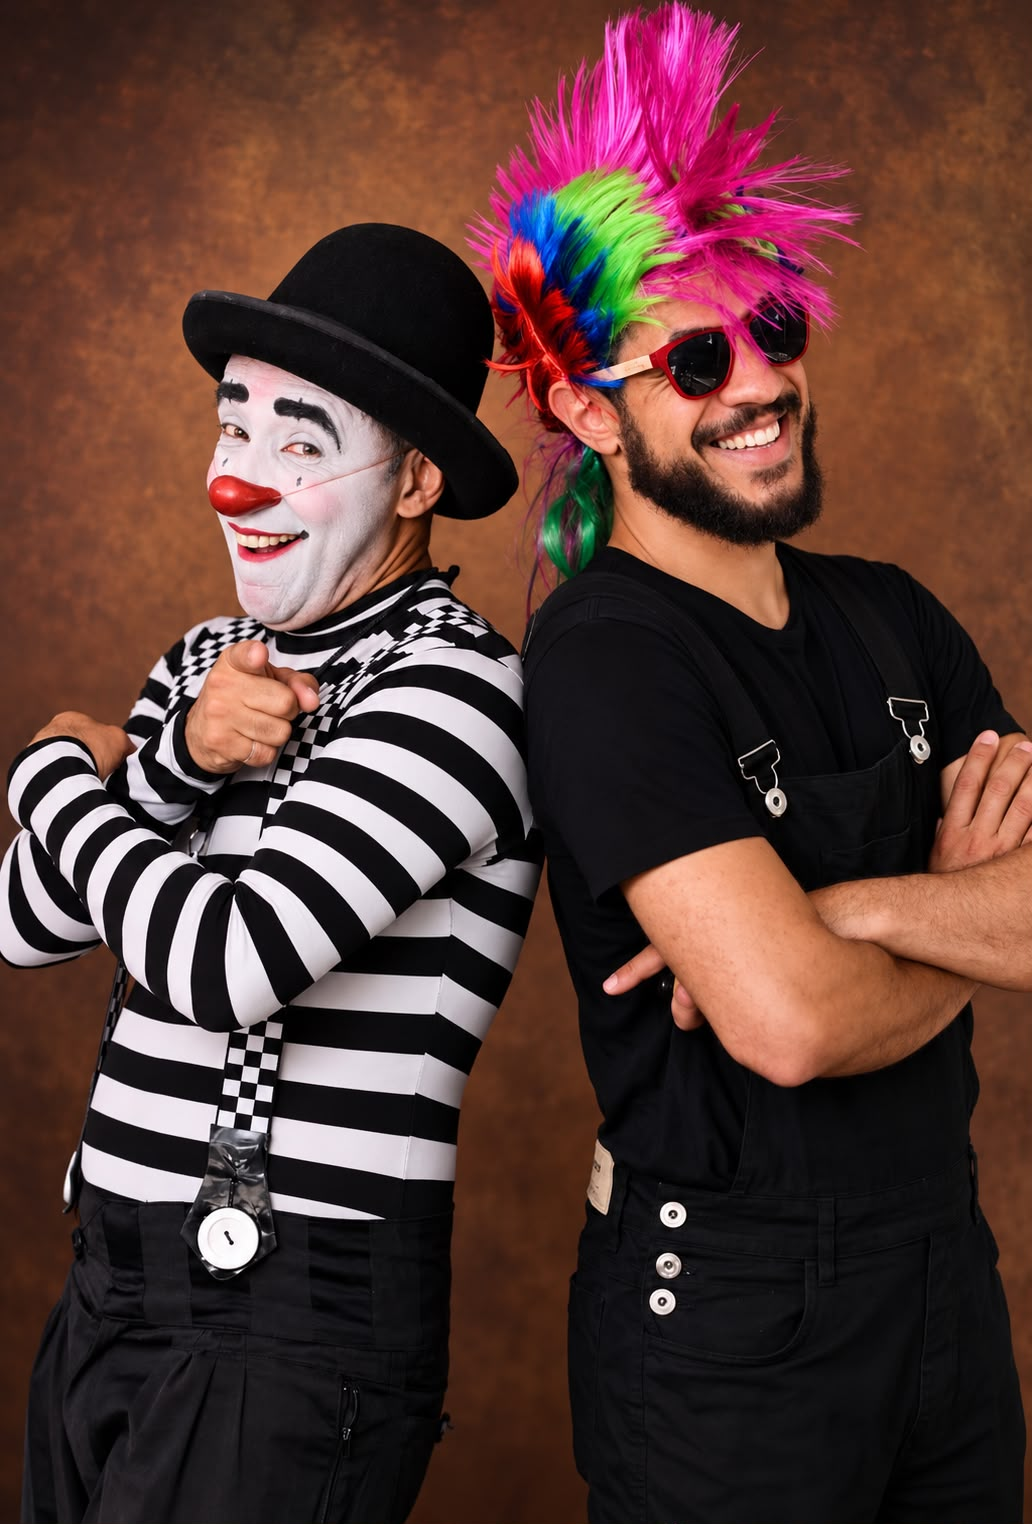
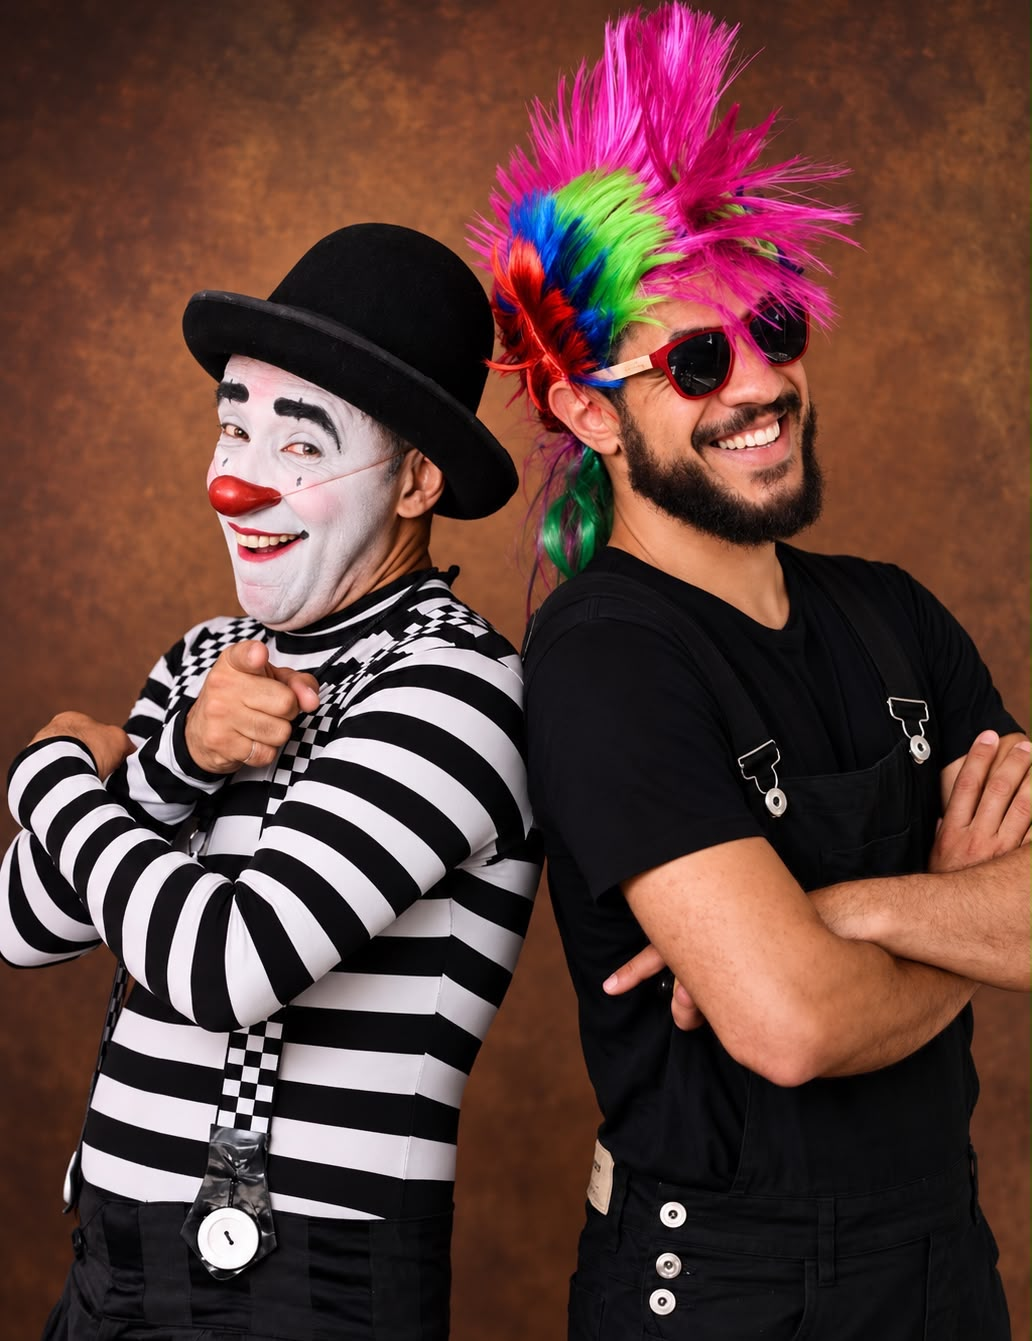
penultimo push para finalizar o site. alterações e adição de fotos na galeria de fotos.

diff --git a/index.html b/index.html
@@ -104,7 +104,7 @@
             <div><strong>+13 Anos</strong><span>Experiência em eventos e treinamentos corporativos</span></div>
             <div><strong>+800</strong><span>eventos realizados</span></div>
             <div><strong>+400</strong><span>empresas atendidas</span></div>
-            <div><strong>+0 Mil</strong><span>colaboradores impactados</span></div>
+            <div><strong>+50 Mil</strong><span>colaboradores impactados</span></div>
           </div>
         </div>
       </section>
@@ -177,10 +177,10 @@
         <div class="w sec">
           <h2 class="t">Galeria de <b>eventos</b></h2>
           <div class="grid g2">
-            <div class="ph com-foto">[FOTO 1]</div>
-            <div class="ph com-foto">[FOTO 2]</div>
-            <div class="ph com-foto">[FOTO 3]</div>
-            <div class="ph com-foto">[FOTO 4]</div>
+            <div class="ph com-foto"><img src="/fotosperformace/galeria/WhatsApp Image 2026-11-09 at 22.02.23 (1).jpeg" alt="Galeria de eventos"></div>
+            <div class="ph com-foto"><img src="/fotosperformace/galeria/Stresesegdotreb - cópia.jpeg" alt="Evento 1"></div>
+            <div class="ph com-foto"><img src="/fotosperformace/galeria/WhatsApp Image 2026-11-09 at 22.02.23 (2).jpeg" alt="Evento 2"></div>
+            <div class="ph com-foto"><img src="/fotosperformace/galeria/WhatsApp Image 2026-11-09 at 22.02.24 (1).jpeg" alt="Evento 3"></div>
           </div>
         </div>
       </section>
@@ -192,28 +192,46 @@
           <details>
             <summary>O que é a SIPAT?</summary>
             <p>
-              É a Semana Interna de Prevenção de Acidentes do Trabalho, organizada pela CIPA da
-              empresa, conforme a NR-5. Confirme as regras para o seu caso com o técnico de
-              segurança.
+              A SIPAT (Semana Interna de Prevenção de Acidentes do Trabalho) é uma iniciativa voltada à conscientização dos colaboradores sobre segurança, saúde e qualidade de vida no ambiente profissional.
+
+              <p>Na Performance Eventos Corporativos, transformamos esse momento em uma experiência dinâmica e envolvente, com palestras, treinamentos e atividades interativas que unem conhecimento, criatividade e engajamento.</p>
+              
+
             </p>
           </details>
           <details>
             <summary>Vocês adaptam o conteúdo à nossa empresa?</summary>
             <p>
-              Sim. As peças de teatro e os programas são adaptáveis à realidade de cada empresa.
+              Sim! Cada empresa possui suas próprias necessidades, desafios e características. Por isso, personalizamos nossas atividades de acordo com o perfil dos colaboradores, o segmento de atuação e os objetivos de cada organização.
+              <p>Nosso compromisso é oferecer conteúdos relevantes, dinâmicos e alinhados à realidade da sua equipe, proporcionando uma experiência de aprendizado mais eficaz.</p>
+          
             </p>
           </details>
           <details>
             <summary>Quanto tempo dura cada atividade?</summary>
-            <p>[Responder com o cliente: duração média de palestras, teatros e intervenções.]</p>
+            <p>A duração varia conforme o formato e os objetivos de cada atividade. Trabalhamos com palestras, treinamentos, intervenções e ações interativas que podem ser adaptadas à programação da sua empresa.
+
+              <p>Nossa equipe auxilia na definição do tempo ideal para cada atividade, garantindo uma experiência dinâmica, produtiva e adequada à rotina dos colaboradores.</p>
+
+            </p>
+
           </details>
           <details>
             <summary>Atendem em quais regiões?</summary>
-            <p>[Responder com o cliente: cidades e estados atendidos.]</p>
+            <p>A Performance Eventos Corporativos atende empresas em todo o território nacional.
+
+              <P>Levamos nossas palestras, treinamentos e ações de conscientização a organizações de diferentes portes e segmentos, oferecendo soluções personalizadas para cada região e necessidade.</P>
+
+
+            </p>
           </details>
           <details>
             <summary>Como solicito um orçamento?</summary>
-            <p>Pelo WhatsApp (11) 95210-2326 ou pelo formulário da página de contato.</p>
+            <p>É simples! Entre em contato com nossa equipe pelo formulário do site ou pelos nossos canais de atendimento
+
+              <p>Conte um pouco sobre sua empresa, o tipo de atividade desejada, a localização e a data prevista para o evento. Nossa equipe avaliará suas necessidades e preparará uma proposta personalizada, alinhada aos seus objetivos.</p>
+
+            </p>
           </details>
         </div>
       </section>

diff --git a/clientes.html b/clientes.html
@@ -71,16 +71,16 @@
     <h2 class="t">Depoimentos</h2>
     <div class="grid" style="margin-top: 24px">
       <article class="card dep">
-        <p>[DEPOIMENTO 1: texto do folder]</p>
-        <p>[Nome, cargo, empresa]</p>
+        <p>“Gostaria de agradecer à equipe da Performance Eventos Corporativos pela parceria e pelo excelente trabalho realizado. As atividades foram conduzidas com muito profissionalismo, criatividade e dinamismo, proporcionando momentos de aprendizado e conscientização aos nossos colaboradores. Foi uma experiência muito positiva e satisfatória!”</p>
+        <p>Karina RH | Saint Gobain</p>
       </article>
       <article class="card dep">
-        <p>[DEPOIMENTO 2: texto do folder]</p>
-        <p>[Nome, cargo, empresa]</p>
+        <p>"Contratamos a Performance para a nossa SIPAT e foi um sucesso. As palestras foram excelentes, o palestrante arrasou e todo mundo gostou bastante. É um trabalho de alto nível que recomendamos com certeza para outras empresas!"</p>
+        <p>Galvani | Luís Eduardo Magalhães (BA)</p>
       </article>
       <article class="card dep">
-        <p>[DEPOIMENTO 3: texto do folder]</p>
-        <p>[Nome, cargo, empresa]</p>
+        <p>"Gostaria de recomendar o trabalho do palestrante da Performance SIPAT. As palestras são excelentes, com um conteúdo de alto nível que realmente agrega valor à empresa. É um investimento que vale a pena e que traz resultados reais para a segurança e conscientização dos colaboradores."</p>
+        <p>Cátia Segurança | Galvani</p>
       </article>
     </div>
   </div>

diff --git a/solucoes.html b/solucoes.html
@@ -164,14 +164,14 @@
         </div>
       </section>
       <!-- SEÇÃO: Galeria de eventos (classe: alt) -->
-      <section class="alt">
+      <section>
         <div class="w sec">
           <h2 class="t">Galeria de <b>eventos</b></h2>
           <div class="grid g2">
-            <div class="ph com-foto">[FOTO 1]</div>
-            <div class="ph com-foto">[FOTO 2]</div>
-            <div class="ph com-foto">[FOTO 3]</div>
-            <div class="ph com-foto">[FOTO 4]</div>
+            <div class="ph com-foto"><img src="/fotosperformace/galeria/WhatsApp Image 2026-11-09 at 22.02.24 (2).jpeg" alt="Galeria de eventos"></div>
+            <div class="ph com-foto"><img src="/fotosperformace/galeria/WhatsApp Image 2026-11-09 at 22.02.24.jpeg" alt="Evento 1"></div>
+            <div class="ph com-foto"><img src="/fotosperformace/galeria/WhatsApp Image 2026-11-09 at 22.02.25.jpeg" alt="Evento 2"></div>
+            <div class="ph com-foto"><img src="/fotosperformace/galeria/WhatsApp Image 2026-11-09 at 22.02.23.jpeg" alt="Evento 3"></div>
           </div>
         </div>
       </section>

diff --git a/temas-sipat.html b/temas-sipat.html
@@ -136,12 +136,12 @@
 <figure class="tema">
   <div class="ph com-foto">
     <img
-      src="/fotosperformace/"
+      src="/fotosperformace/equipe.jpeg"
       alt="Palestrante falando para colaboradores em sala de treinamento"
       loading="lazy"
     />
   </div>
-  <figcaption>Segurança do lar</figcaption>
+  <figcaption>Dependência Tecnológica</figcaption>
 </figure>            
 
 <figure class="tema">
@@ -158,12 +158,12 @@
 <figure class="tema">
   <div class="ph com-foto">
     <img
-      src="/fotosperformace/"
+      src="/fotosperformace/Esqueteintervenção.jpeg"
       alt="Palestrante falando para colaboradores em sala de treinamento"
       loading="lazy"
     />
   </div>
-  <figcaption>Ginástica laboral</figcaption>
+  <figcaption>Intervenção Recepção</figcaption>
 </figure>             
 
 <figure class="tema">

diff --git a/contato.html b/contato.html
@@ -58,7 +58,7 @@
             </article>
             <article class="card">
               <h3>Redes sociais</h3>
-              <p>[Instagram / LinkedIn / YouTube]</p>
+              <p><h5>@peventos26</h5></p>
             </article>
           </div>
 
@@ -69,7 +69,7 @@
                 loading="lazy"
               />
             </div>
-            
+
         </div>
       </section>
     </main>
